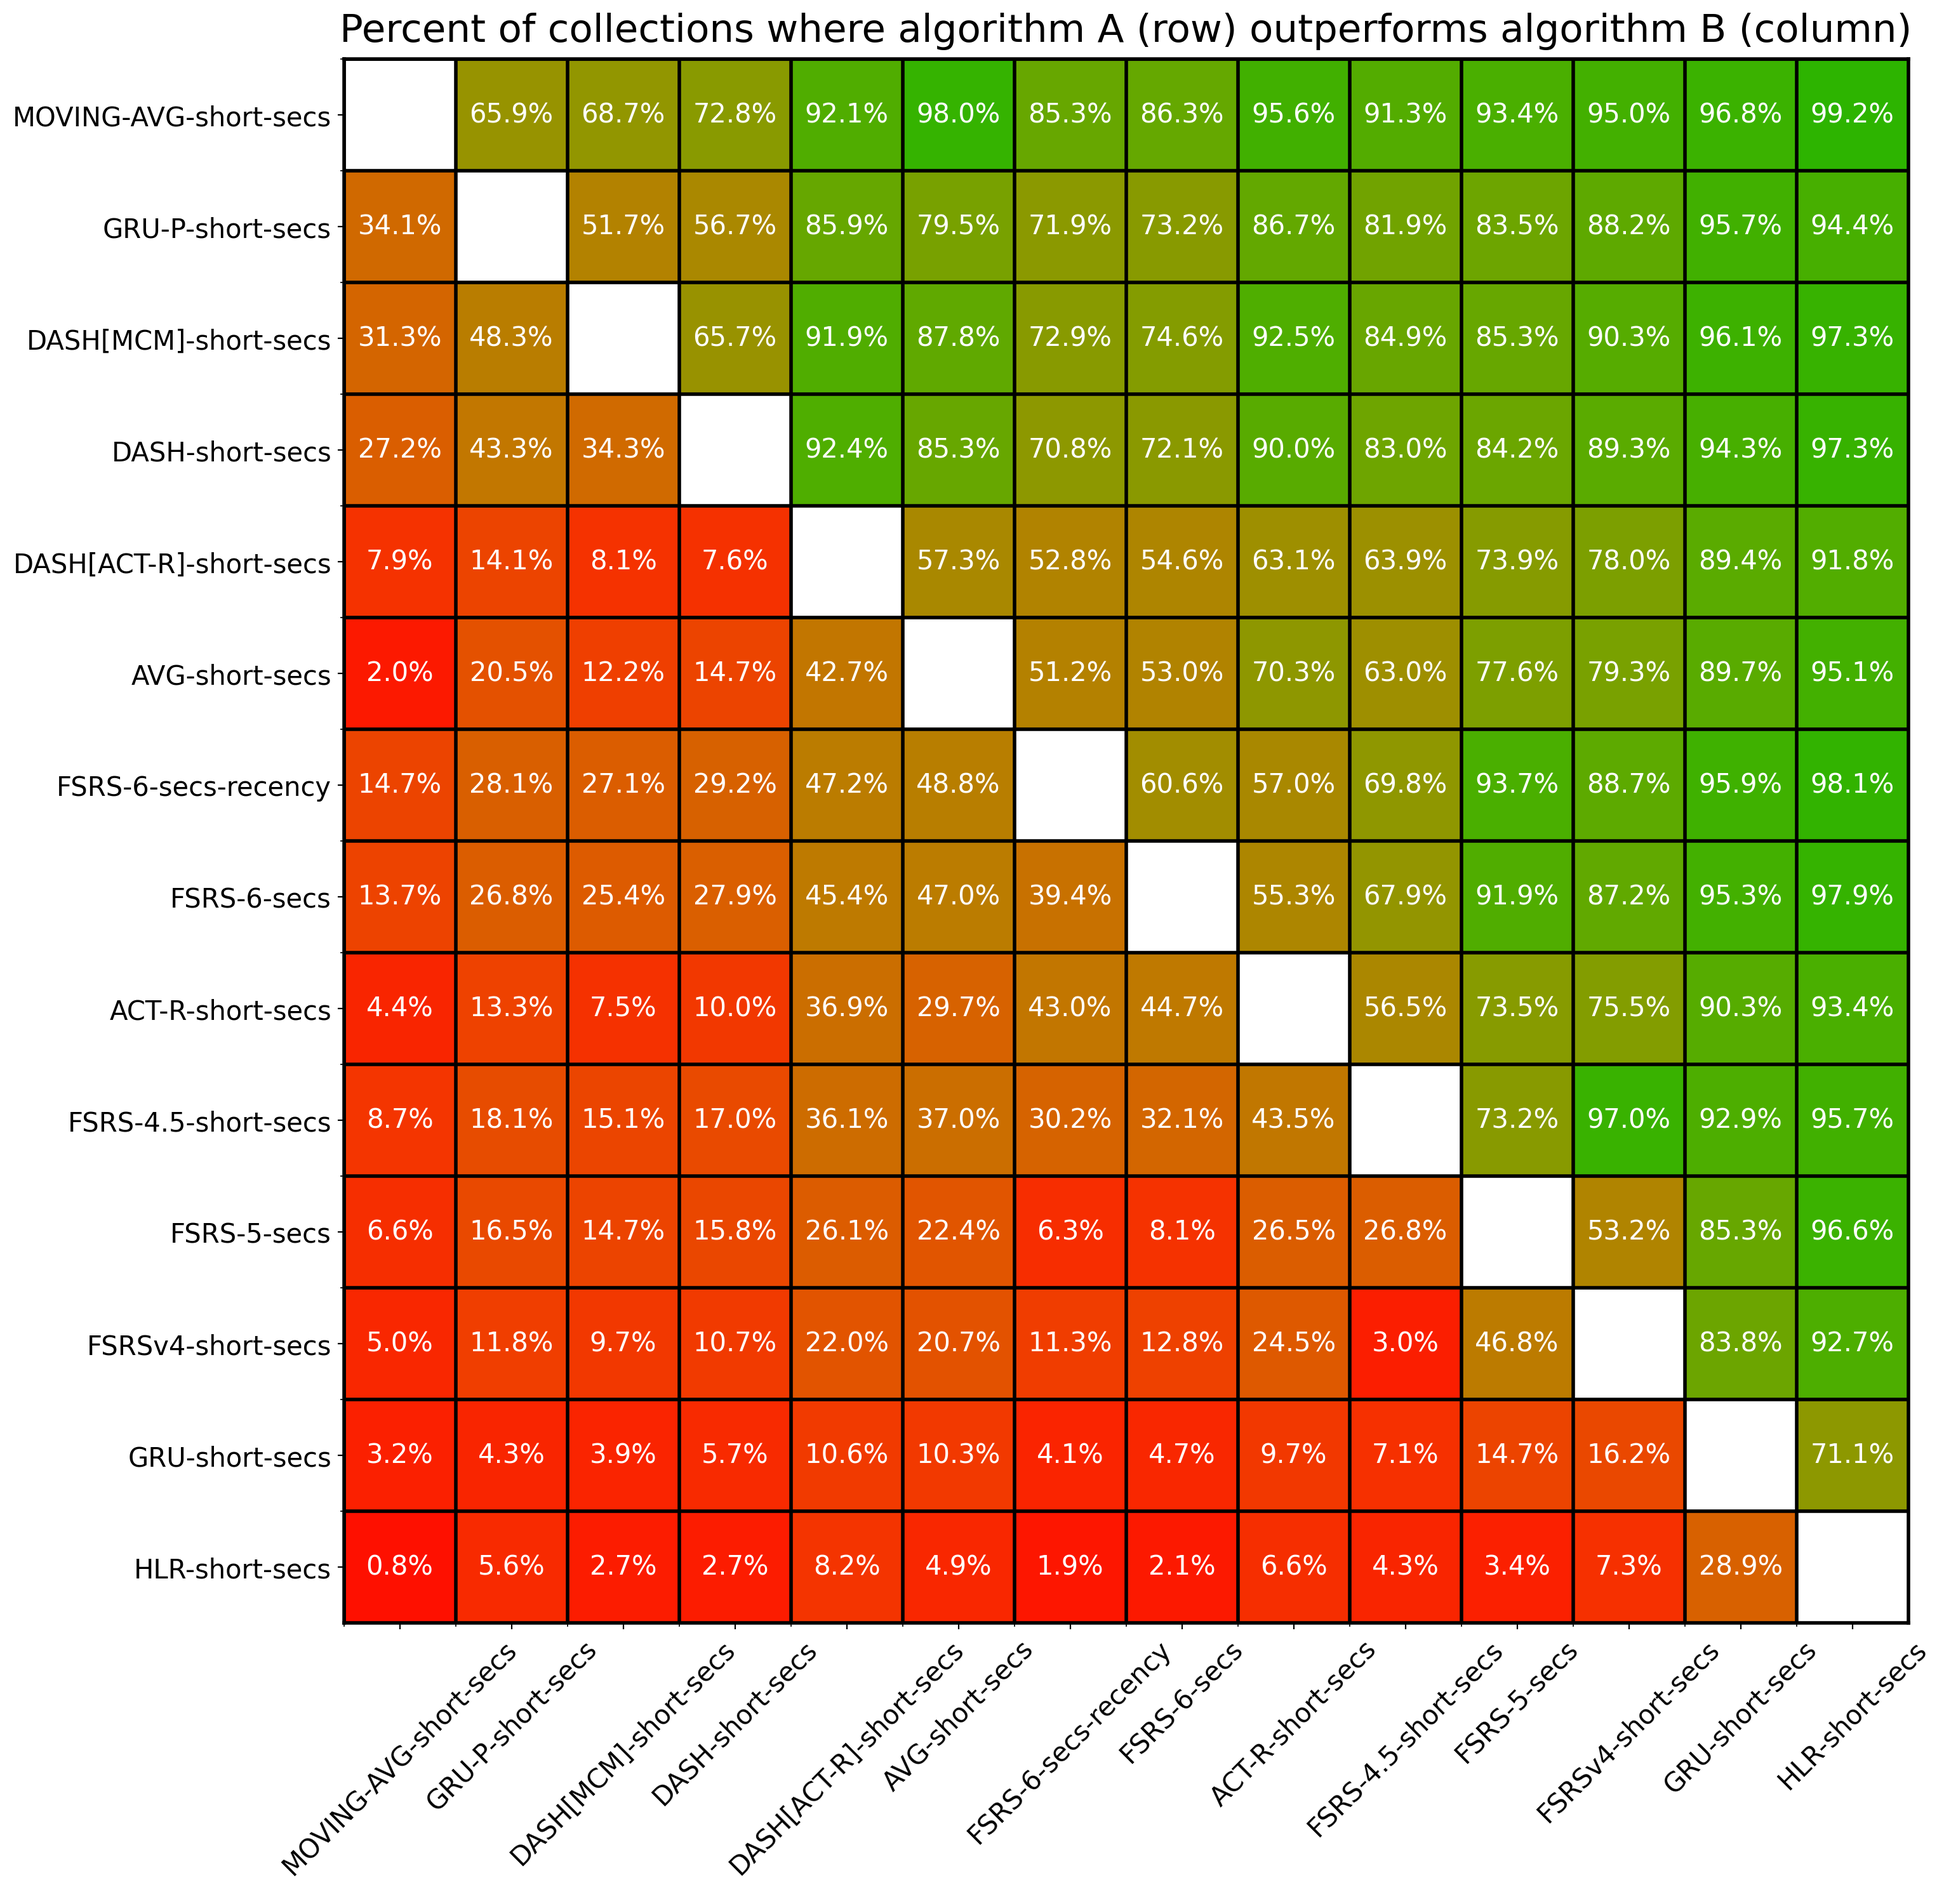
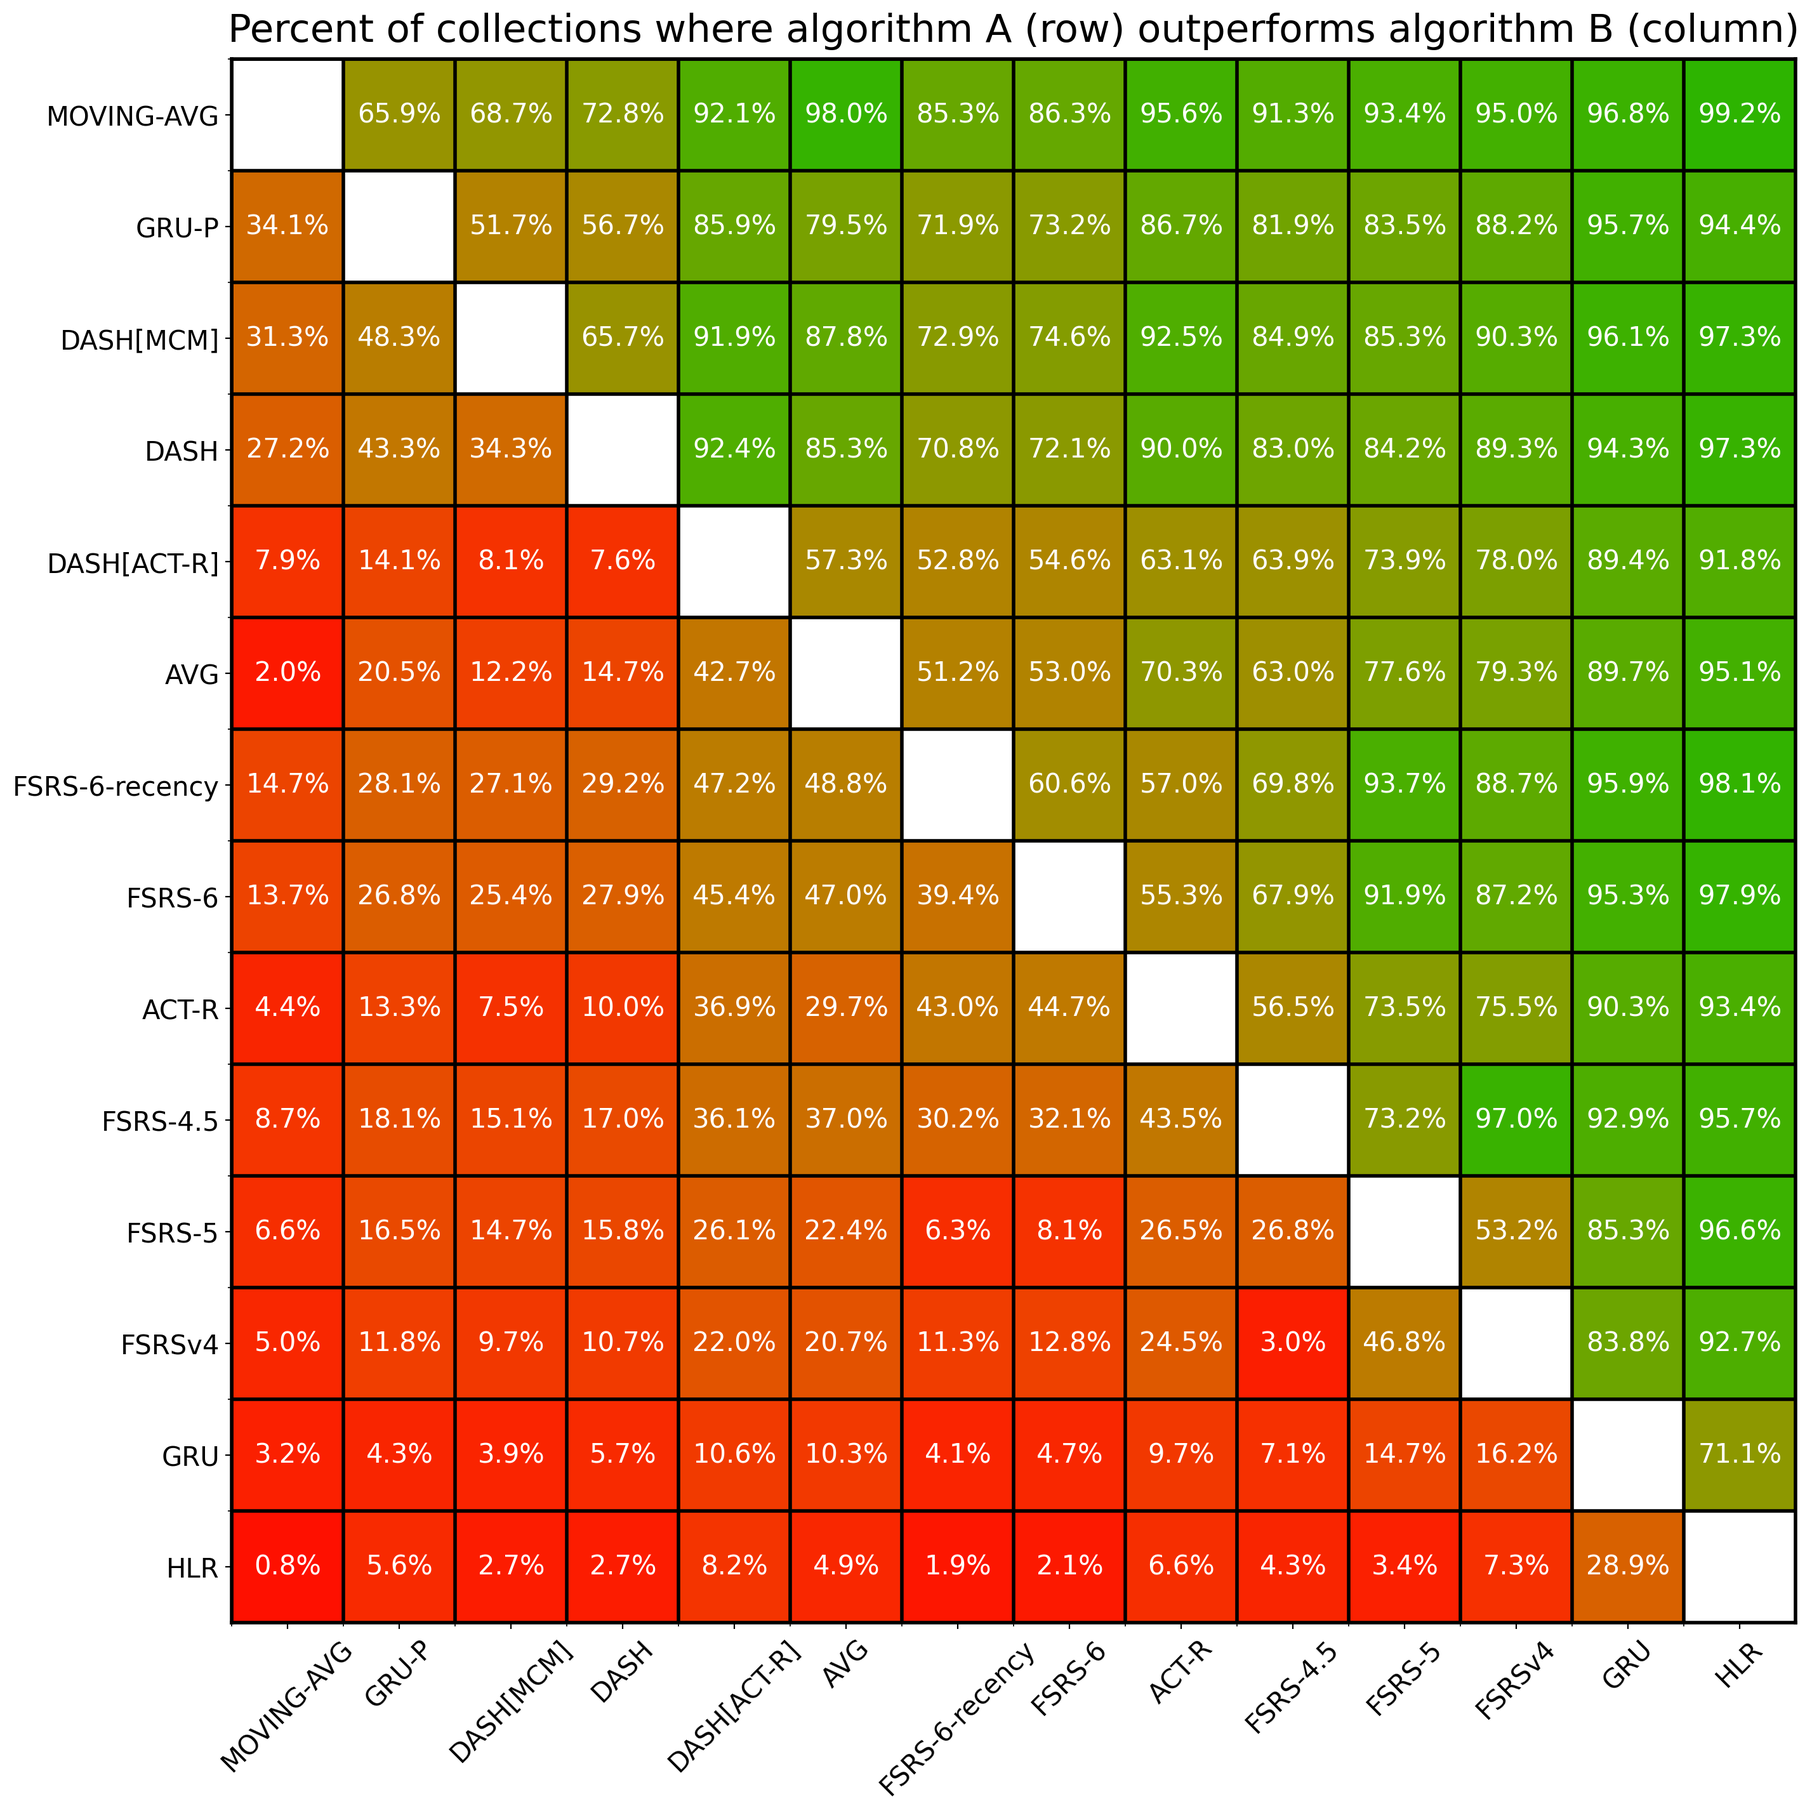
remove -short-secs from algorithm names

diff --git a/superiority_small.py b/superiority_small.py
@@ -133,6 +133,9 @@ if __name__ == "__main__":
         models[index_v4] = "FSRS v4"
         models[index_Ebisu_v2] = "Ebisu v2"
         models[index_FSRS_6_recency] = "FSRS-6\nrecency"
+    else:
+        for i, model in enumerate(models):
+            models[i] = model.replace("-secs", "").replace("-short", "")
 
     fig, ax = plt.subplots(figsize=(16, 16), dpi=200)
     ax.set_title(
